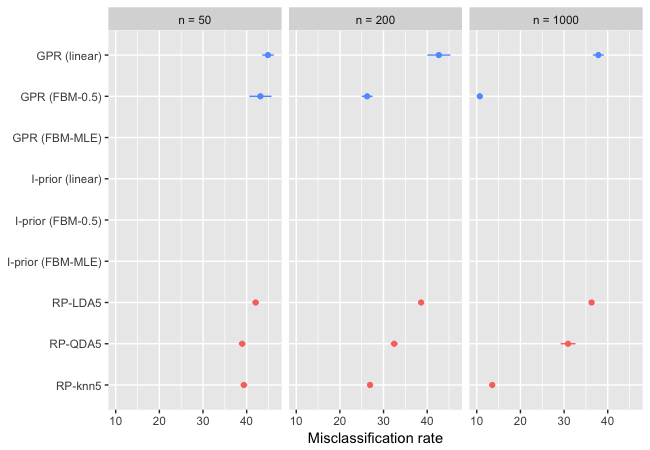
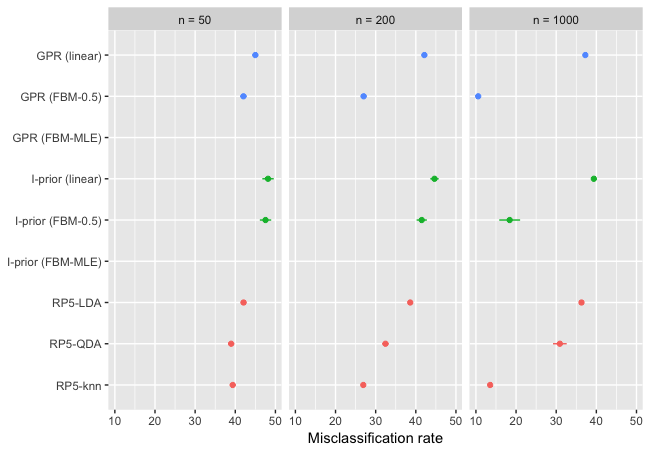
Eye state data

diff --git a/README.md b/README.md
@@ -4,19 +4,17 @@ In reference to [1], we compare the peformance of binary classification using Ga
 
 ## Eye state detection (N = 14,980, p = 14)
 
-*Notes: Experiment is ongoing*
-
 |                  |       n = 50|      n = 200|     n = 1000| Rank|
 |:-----------------|------------:|------------:|------------:|----:|
-|GPR (linear)      | 46.61 (0.92)| 42.27 (0.95)| 37.53 (0.48)|    5|
-|GPR (FBM-0.5)     | 42.48 (1.09)| 26.00 (0.54)| 10.79 (0.21)|    1|
-|GPR (FBM-MLE)     |           NA|           NA|           NA|    6|
-|I-prior (linear)  |           NA|           NA|           NA|    7|
-|I-prior (FBM-0.5) |           NA|           NA|           NA|    8|
+|GPR (linear)      | 44.99 (0.38)| 42.13 (0.36)| 37.25 (0.19)|    6|
+|GPR (FBM-0.5)     | 42.04 (0.42)| 27.01 (0.38)| 10.56 (0.11)|    2|
+|GPR (FBM-MLE)     |           NA|           NA|           NA|    8|
+|I-prior (linear)  | 48.16 (0.73)| 44.65 (0.53)| 39.38 (0.28)|    7|
+|I-prior (FBM-0.5) | 47.53 (0.72)| 41.48 (0.65)| 18.41 (1.33)|    5|
 |I-prior (FBM-MLE) |           NA|           NA|           NA|    9|
-|RP-LDA5           | 42.06 (0.38)| 38.61 (0.29)| 36.30 (0.21)|    4|
-|RP-QDA5           | 38.97 (0.39)| 32.44 (0.42)| 30.91 (0.87)|    3|
-|RP-knn5           | 39.37 (0.39)| 26.91 (0.27)| 13.54 (0.19)|    1|
+|RP5-LDA           | 42.06 (0.38)| 38.61 (0.29)| 36.30 (0.21)|    4|
+|RP5-QDA           | 38.97 (0.39)| 32.44 (0.42)| 30.91 (0.87)|    3|
+|RP5-knn           | 39.37 (0.39)| 26.91 (0.27)| 13.54 (0.19)|    1|
 
 ![](figure/eye.png)
 
